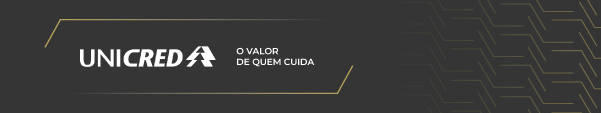
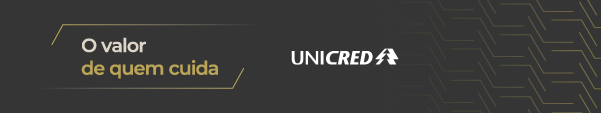
Add files via upload

diff --git a/send.js b/send.js
@@ -1,5 +1,5 @@
 // /api/send.js
-// Envia e-mail para o destinatário central (RESERVAS_TO) com assunto detalhado.
+// Gmail SMTP com App Password
 const nodemailer = require("nodemailer");
 
 module.exports = async (req, res) => {
@@ -7,23 +7,39 @@ module.exports = async (req, res) => {
     if (req.method !== "POST") return res.status(405).json({ ok:false, error:"Method not allowed" });
 
     let body = req.body;
-    if (typeof body === "string") { try{ body = JSON.parse(body || "{}"); } catch { body = {}; } }
+    if (typeof body === "string") { try { body = JSON.parse(body || "{}"); } catch { body = {}; } }
     const { html, veiculo, placa, motorista, inicio, fim } = body || {};
 
-    const user = process.env.M365_USER, pass = process.env.M365_PASS, toCentral = process.env.RESERVAS_TO;
-    if (!user || !pass || !toCentral) return res.status(500).json({ ok:false, error:"Missing envs (M365_USER, M365_PASS, RESERVAS_TO)" });
+    const user = process.env.GMAIL_USER;
+    const pass = process.env.GMAIL_APP_PASS; // App Password
+    const toCentral = process.env.RESERVAS_TO;
 
-    const transporter = nodemailer.createTransport({ host:"smtp.office365.com", port:587, secure:false, requireTLS:true, auth:{ user, pass } });
+    if (!user || !pass || !toCentral) {
+      return res.status(500).json({ ok:false, error:"Missing envs (GMAIL_USER, GMAIL_APP_PASS, RESERVAS_TO)" });
+    }
+
+    const transporter = nodemailer.createTransport({
+      host: "smtp.gmail.com",
+      port: 465,
+      secure: true,
+      auth: { user, pass }
+    });
+
     await transporter.verify().catch(()=>{ throw new Error("SMTP verify failed"); });
 
     const fmt = (d)=>{ try{ const x=new Date(d); return x.toLocaleDateString('pt-BR',{day:'2-digit',month:'2-digit'})+' '+x.toLocaleTimeString('pt-BR',{hour:'2-digit',minute:'2-digit'});}catch{return d;} };
     const periodo = `${fmt(inicio)}–${fmt(fim)}`;
     const subject = `[Frota] ${veiculo || 'Veículo'} • ${periodo} • ${motorista || ''}`;
 
-    const info = await transporter.sendMail({ from:`"Reservas Frota" <${user}>`, to: toCentral, subject, html: html || "<p>Reserva criada.</p>" });
+    const info = await transporter.sendMail({
+      from: `"Reservas Frota" <${user}>`,
+      to: toCentral,
+      subject,
+      html: html || "<p>Reserva criada.</p>"
+    });
     return res.status(200).json({ ok:true, id: info.messageId });
   } catch (e) {
     console.error("SEND ERROR:", e);
-    return res.status(500).json({ ok:false, error: String(e) });
+    return res.status(500).json({ ok:false, error:String(e) });
   }
 };

diff --git a/index.html b/index.html
@@ -11,6 +11,7 @@
     :root{--brand-primary:#0a4b3e;--brand-accent:#c7a440;--brand-dark:#2f2f2f;}
     body{background:#fff;color:#0b0f12;}
     .brand-title{color:var(--brand-dark);}
+    .sub{color:#6b7280;}
     .btn{padding:.5rem .75rem;border:1px solid #d1d5db;border-radius:.5rem;background:#fff;}
     .btn:hover{background:#f9fafb;}
     .btn-primary{background:var(--brand-primary);color:#fff;border-color:var(--brand-primary);}
@@ -19,7 +20,6 @@
     .card{background:#fff;border:1px solid #e5e7eb;border-radius:.75rem;}
     .input,.select{width:100%;padding:.5rem .75rem;border-radius:.5rem;background:#fff;border:1px solid #d1d5db;color:#111827;}
     .muted{color:#6b7280;}
-    .hero img{max-height:80px;width:auto;}
     th, td { vertical-align: top; }
   </style>
 </head>
@@ -146,16 +146,10 @@
       const ordered = useMemo(()=>reservas.slice().sort((a,b)=>new Date(a.inicio)-new Date(b.inicio)),[reservas]);
 
       return React.createElement('div',{className:'max-w-6xl mx-auto p-4 md:p-8 space-y-6'},[
-        React.createElement('div',{className:'flex items-center justify-between'},[
-          React.createElement('div',{className:'text-center mx-auto'},[
-            React.createElement('h1',{className:'brand-title text-2xl font-bold'},'UNICRED - Núcleo Estratégico'),
-            React.createElement('p',null,'Reserva de veículos')
-          ]),
-          React.createElement('div',{className:'absolute right-4 top-4'},[
-            admin
-              ? React.createElement('button',{className:'btn btn-ghost',onClick:sairAdmin},'Sair do modo admin')
-              : React.createElement('button',{className:'btn btn-ghost',onClick:entrarComoAdmin},'Entrar como administrador')
-          ])
+        React.createElement('div',{className:'text-center flex flex-col items-center gap-2'},[
+          React.createElement('img',{src:'./header-banner.png', alt:'UNICRED', style:{maxHeight:'84px', width:'auto'}}),
+          React.createElement('h1',{className:'brand-title text-2xl font-extrabold tracking-tight'},'UNICRED – Núcleo Estratégico'),
+          React.createElement('p',{className:'sub'},'Reserva de veículos')
         ]),
 
         React.createElement('div',{className:'card p-4'},[

diff --git a/verify-admin.js b/verify-admin.js
@@ -1,5 +1,4 @@
 // /api/verify-admin.js
-// Verifica o PIN de administrador enviado pelo cliente sem expor o valor real.
 module.exports = async (req, res) => {
   try {
     if (req.method !== "POST") return res.status(405).json({ ok:false, error:"Method not allowed" });
